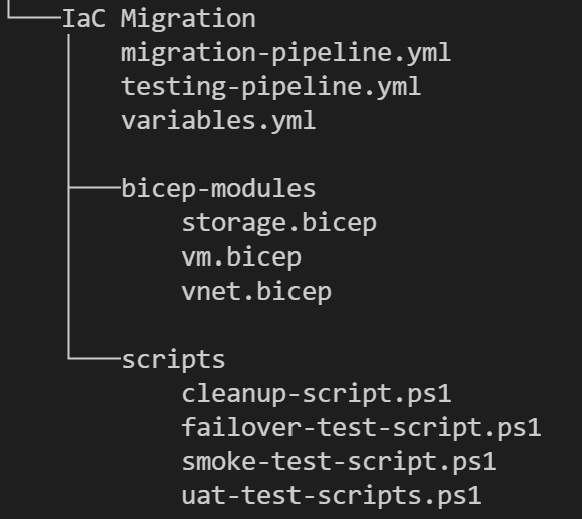
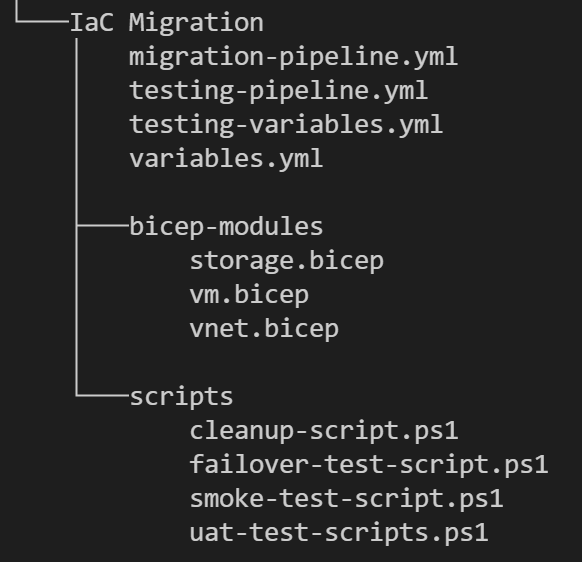
Link/path fixes

Changed region(s): [[0.0, 0.0, 0.9588, 0.9865]]

diff --git a/doc/devops-iac-redeployment.md b/doc/devops-iac-redeployment.md
@@ -11,9 +11,9 @@ This section outlines the steps needed in order to execute an Azure DevOps Pipel
 
 
 ## 2 Redeployment/Rehosting Tools - Planning and Implementation
-### 2.1\. Create a project in Azure DevOps using guidance from the [DevOps/IaC Template](.\importing-template.md). This project template gives a baseline for getting started with planning and tracking migration tasks using [Azure Boards](https://docs.microsoft.com/en-us/azure/devops/boards/get-started/?view=azure-devops) and executing this migration path with [Azure Repos](https://docs.microsoft.com/en-us/azure/devops/repos/get-started/?view=azure-devops). In addition to this guidance, there are also sample [Azure Pipelines](https://docs.microsoft.com/en-us/azure/devops/pipelines/get-started/pipelines-get-started?view=azure-devops) templates in this repo that can be used as a baseline for your migration pipelines. 
+### 2.1\. Create a project in Azure DevOps using guidance from the [DevOps/IaC Template](./importing-template.md). This project template gives a baseline for getting started with planning and tracking migration tasks using [Azure Boards](https://docs.microsoft.com/en-us/azure/devops/boards/get-started/?view=azure-devops) and executing this migration path with [Azure Repos](https://docs.microsoft.com/en-us/azure/devops/repos/get-started/?view=azure-devops). In addition to this guidance, there are also sample [Azure Pipelines](https://docs.microsoft.com/en-us/azure/devops/pipelines/get-started/pipelines-get-started?view=azure-devops) templates in this repo that can be used as a baseline for your migration pipelines. 
 
-### 2.2\. In the Azure DevOps Project Settings, allocate the appropriate permissions for users and Service Principals using least privilege. Also, create a service connection to use within your Azure DevOps environment for deployment purposes.
+### 2.2\. In the Azure DevOps Project Settings, allocate the appropriate permissions for users and Service Principals using least privilege principles. Also, create a service connection to use within your Azure DevOps environment for resource deployment purposes.
 
 ### 2.3\. Create the appropriate repository for template storage and version control using guidance outlined below:
 
@@ -24,19 +24,20 @@ Recommended folder structure:
 Details:
 - `bicep-modules`: folder to store bicep files in for reference
 - `scripts`: folder to store powershell files for executing different test and validation scripts
-    > Note: Test scripts to be developed (recommend using PowerShell) based on needs for your migration environment.
+    > Note: Test scripts are to be developed based on needs for your migration environment. (Recommend developing them in PowerShell)
 - `testing-pipeline.yml`: file for testing in an isolated VNet
 - `migration-pipeline.yml`: file for running non-prod and prod migration waves
 
 
 ### 2.3\. Create IaC templates for your deployment
-If utilizing Bicep for your deployment, start [here](https://github.com/Azure/fta-live-iac#bicep) for a list of resources for getting started with Bicep and integrating it into an Azure DevOps Pipeline.
+If utilizing Bicep for your deployment, start [here](https://github.com/Azure/fta-live-iac#bicep) for helpful resources to get started with Bicep and integrating it into an Azure DevOps Pipeline.
 
+- Create compute, network and storage templates for execution
 - Set up any components such as a Shared Image Gallery with custom images
     - [Shared Image Gallery Documentation](https://docs.microsoft.com/en-us/azure/virtual-machines/shared-image-galleries)
     - [Azure Image Builder Documentation](https://docs.microsoft.com/en-us/azure/virtual-machines/image-builder-overview)
     - [DevOps Task for Azure Image Builder](https://docs.microsoft.com/en-us/azure/virtual-machines/linux/image-builder-devops-task)
--  Create compute, network and storage templates for execution
+
 
 
 ## 3 Pipeline Execution for Rehost/Redeployment
@@ -44,15 +45,15 @@ This section covers utilizing Azure Pipelines to execute IaC templates. The reco
 
 > Note: Guidance for utilizing 3rd Party Orchestration Engines (Optional) can be found [here](https://github.com/Azure/fta-live-iac#other-orchestrators)
 
-### 3.1\. Based on the migration wave, outline variables needed for the CI/CD pipeline in a [variables.yml](./pipelines/variables.yml) file.
+### 3.1\. Based on the migration wave, outline variables needed for the CI/CD pipeline in a [variables.yml](../pipelines/variables.yml) file.
 
-### 3.2\. Create a pipeline.yml for resource execution using the [template](./pipelines/migration-pipeline.yml) as a starter pipeline. Below are the environment-based Pipeline components descriptions:
-- Test
+### 3.2\. Create a `pipeline.yml` for resource execution using the templates as a starter pipeline. Below are the environment-based pipeline components descriptions:
+- [Test](../pipelines/testing-pipeline.yml)
     - Testing scripts
     - Isolated VNet used to test and validate VMs
-- Non-Prod
+- [Non-Prod](../pipelines/migration-pipeline.yml)
     -  Non-Production Migration Wave Workload
-- Prod
+- [Prod](../pipelines/migration-pipeline.yml)
     - Production Migration Wave Workload
 
 ### 3.3\. Execute the pipeline for the appropriate migration wave and environment.

diff --git a/doc/devops-iac-testing.md b/doc/devops-iac-testing.md
@@ -11,12 +11,11 @@
 - Setting up test pipeline by defining parameters for isolated VNet (i.e. CIDR block, NSG Ports that will open on the test subnet, etc.).
 - Ensure that appropriate stakeholders are given the least privilege permissions to execute the pipelines.
 - Define Migration approach through waves of execution
-    - Understand dependencies to create migration/waves/groups.
+    - Understand dependencies to create migration waves/groups.
     - Define test cases.
-    - Ensure Rollback plan is in place for re-hosted VMs.
+    - Ensure Rollback plan is in place for the re-hosted VMs.
     - Make sure that test data is consistent with the data used in production.
 - Clean up test resources that were deployed in an isolated VNet.
-
 
 ### 1.2\. Post-Migration Tasks 
 - Validate VM migration was successful and that applications are functioning as should be
@@ -33,9 +32,9 @@
 
 ## 2 Pipeline Execution for Testing
 
-### 2.1\. Outline parameters that simulate a smaller scale version of your environment (use [`testing-variables.yml`](./pipelines/testing-variables.yml) as a sample)
+### 2.1\. Outline parameters that simulate a smaller scale version of your environment (use [`testing-variables.yml`](../pipelines/testing-variables.yml) as a sample)
 
-### 2.2\. Create a `testing-pipeline.yml` for resource execution using the provided [template](./pipelines/testing-pipeline.yml) as a baseline.
+### 2.2\. Create a `testing-pipeline.yml` for resource execution using the provided [template](../pipelines/testing-pipeline.yml) as a baseline.
 Pipeline Tasks:
 - Outline input parameters
 - Start Test Migration
@@ -47,13 +46,7 @@ Pipeline Tasks:
 - Validate Test Environment
 - Delete Test Resources 
 
-### 2.3\. Validate the correct parameters for the pipeline and execute the isolated VNet Testing Pipeline
+### 2.3\. Validate the correct parameters for the pipeline and execute the isolated VNet Testing Pipeline.
 
-### 2.4\. If utilizing the final Migration VNet, set the maintenence window and prepare migration waves for execution using the sample pipeline [template](./pipelines/testing-pipeline.yml) for migration.
+### 2.4\. If utilizing the final Migration VNet, set the maintenence window and prepare migration waves for execution using the sample pipeline [template](../pipelines/migration-pipeline.yml) for migration.
 - If any of the tests fail within a pipeline stage, execute Rollback plan for the migration wave.
-
-## 3 Recommendations for Testing Phase
-- Consider inputing error handling and adding a task for your rollback plan within your pipeline
-
-
- 
